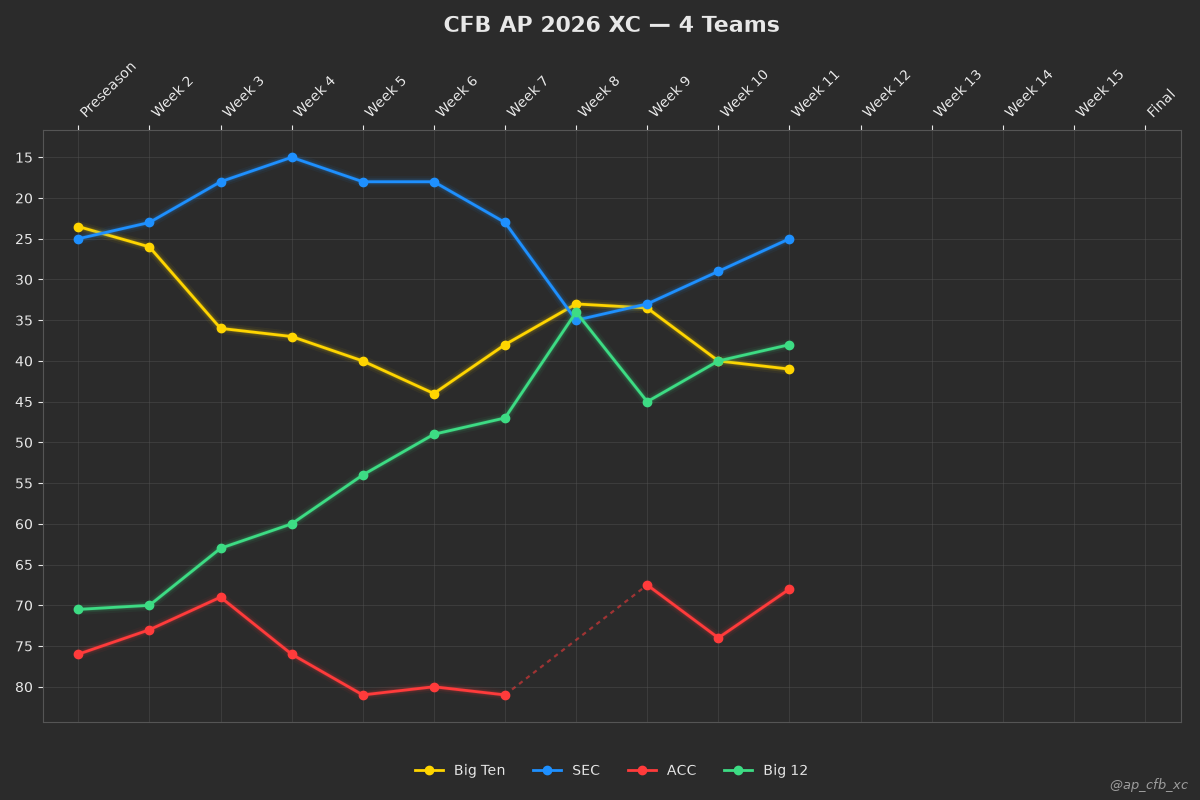
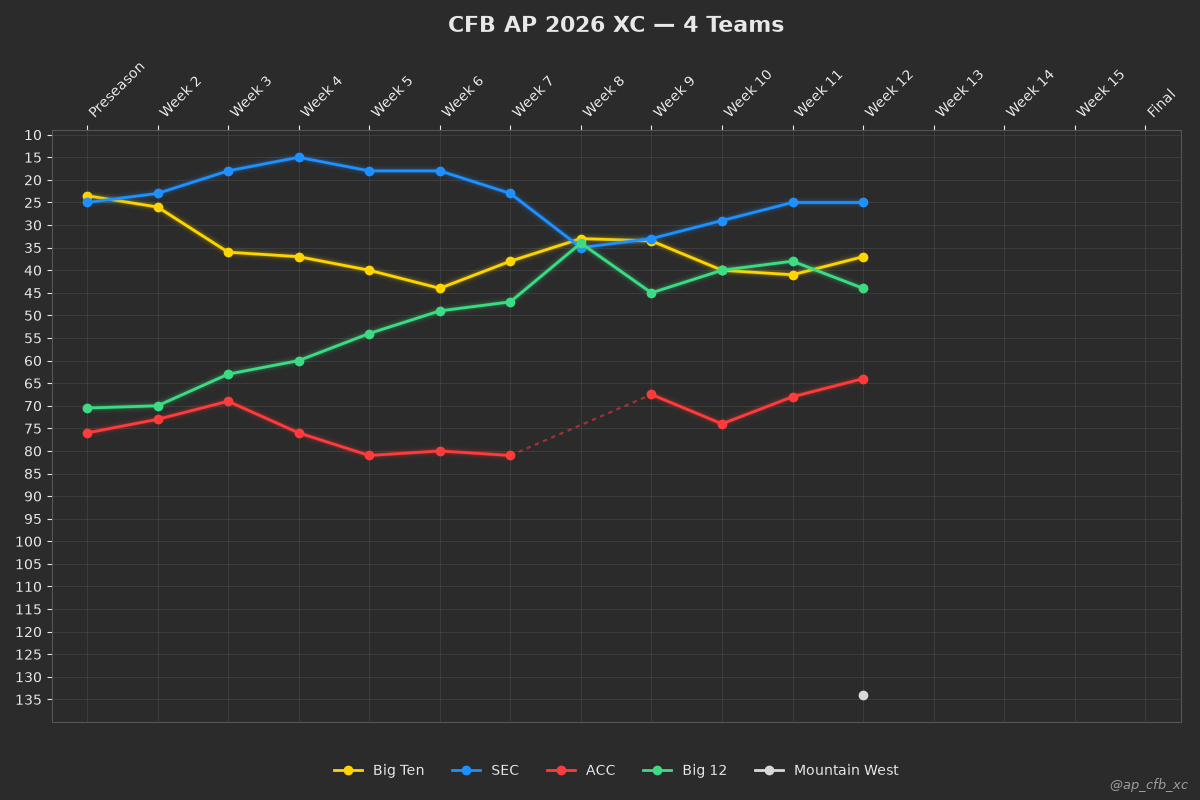
Add Week 12 2026 results

diff --git a/README.md b/README.md
@@ -18,22 +18,25 @@ This provides an objective, measurable comparison of conference strength for eve
 ![five team](images/current_week_5team.png)
 
 <!-- XC-TABLE-5-TEAM:START -->
-**2026 Week 11** — 5-team XC standings
+**2026 Week 12** — 5-team XC standings
 
-| Pos | 1st · SEC | 2nd · Big Ten | 3rd · Big 12 | 4th · ACC | FBS Indep. | Pac-12 | Mountain West | CUSA | American |
-|:---:|:---|:---|:---|:---|:---|:---|:---|:---|:---|
-| **Score** | **38**&nbsp;(▲3) | **59**&nbsp;(▲2) | **60**&nbsp;(▲4) | **98**&nbsp;(▲7) | DNS | DNS | DNS | DNS | DNS |
-| 1 | Georgia (1)&nbsp;▲1 | UCLA (4)&nbsp;▲1 | Utah (2)&nbsp;▲1 | Miami (5)&nbsp;▼4 | *Notre Dame (3)&nbsp;▲1* | *Boise St (17)&nbsp;▲3* | *New Mexico (23)&nbsp;▼1* | *Liberty (29)&nbsp;▲4* | *North Texas (31)&nbsp;NR* |
-| 2 | Alabama (7)&nbsp;▲2 | Indiana (6)&nbsp;– | Texas Tech (10)&nbsp;▲3 | Wake Forest (11)&nbsp;▲3 |  |  |  |  |  |
-| 3 | Texas (8)&nbsp;▲2 | USC (15)&nbsp;▲3 | BYU (12)&nbsp;▼5 | SMU (25)&nbsp;▲4 |  |  |  |  |  |
-| 4 | Tennessee (9)&nbsp;▲7 | Iowa (16)&nbsp;▲5 | Houston (14)&nbsp;▲3 | Duke (27)&nbsp;▲4 |  |  |  |  |  |
-| 5 | Kentucky (13)&nbsp;▼5 | Oregon (18)&nbsp;▲9 | Arizona (22)&nbsp;▲2 | Louisville (30)&nbsp;▲5 |  |  |  |  |  |
-|  | ——— | ——— | ——— | ——— | ——— | ——— | ——— | ——— | ——— |
-| 6 | *Ole Miss (19)&nbsp;▼7* | *Ohio State (21)&nbsp;▼10* | *Oklahoma St (28)&nbsp;▲6* |  |  |  |  |  |  |
-| 7 | *South Carolina (20)&nbsp;▲3* |  |  |  |  |  |  |  |  |
-| 8 | *LSU (24)&nbsp;▼9* |  |  |  |  |  |  |  |  |
-| 9 | *Missouri (26)&nbsp;▼7* |  |  |  |  |  |  |  |  |
-| Dropped | Florida | Northwestern, Minnesota |  | Virginia Tech |  |  |  |  | UTSA |
+| Pos | 1st · SEC | 2nd · Big Ten | 3rd · Big 12 | 4th · ACC | FBS Indep. | Pac-12 | CUSA | American | Mountain West | Sun Belt | MAC |
+|:---:|:---|:---|:---|:---|:---|:---|:---|:---|:---|:---|:---|
+| **Score** | **42**&nbsp;(▼4) | **53**&nbsp;(▲6) | **64**&nbsp;(▼4) | **99.5**&nbsp;(▼1.5) | DNS | DNS | DNS | DNS | DNS | DNS | DNS |
+| 1 | Georgia (1)&nbsp;– | UCLA (4)&nbsp;– | Utah (2)&nbsp;– | Miami (5)&nbsp;– | *Notre Dame (3)&nbsp;–* | *Boise St (15)&nbsp;▲2* | *Liberty (22)&nbsp;▲7* | *Memphis (24)&nbsp;NR* | *New Mexico (30)&nbsp;▼7* | *Louisiana Tech (32)&nbsp;NR* | *Toledo (35.5)&nbsp;NR* |
+| 2 | Alabama (7)&nbsp;– | Indiana (6)&nbsp;– | Texas Tech (11)&nbsp;▼1 | Wake Forest (10)&nbsp;▲1 |  |  |  | *UTSA (29)&nbsp;NR* | *N Dakota St (33)&nbsp;NR* |  |  |
+| 3 | Texas (8)&nbsp;– | Iowa (13)&nbsp;▲3 | BYU (12)&nbsp;– | Louisville (21)&nbsp;▲9 |  |  |  |  | *Wyoming (35.5)&nbsp;NR* |  |  |
+| 4 | Tennessee (9)&nbsp;– | Oregon (14)&nbsp;▲4 | Arizona (19)&nbsp;▲3 | Duke (28)&nbsp;▼1 |  |  |  |  | *Air Force (35.5)&nbsp;NR* |  |  |
+| 5 | Kentucky (17)&nbsp;▼4 | Ohio State (16)&nbsp;▲5 | Houston (20)&nbsp;▼6 | SMU (35.5)&nbsp;▼10.5 |  |  |  |  |  |  |  |
+|  | ——— | ——— | ——— | ——— | ——— | ——— | ——— | ——— | ——— | ——— | ——— |
+| 6 | *Florida (23)&nbsp;NR* | *USC (18)&nbsp;▼3* |  |  |  |  |  |  |  |  |  |
+| 7 | *Ole Miss (25)&nbsp;▼6* |  |  |  |  |  |  |  |  |  |  |
+| 8 | *Oklahoma (26)&nbsp;NR* |  |  |  |  |  |  |  |  |  |  |
+| 9 | *LSU (27)&nbsp;▼3* |  |  |  |  |  |  |  |  |  |  |
+| 10 | *South Carolina (31)&nbsp;▼11* |  |  |  |  |  |  |  |  |  |  |
+| 11 | *Auburn (38)&nbsp;NR* |  |  |  |  |  |  |  |  |  |  |
+| 12 | *Missouri (39)&nbsp;▼13* |  |  |  |  |  |  |  |  |  |  |
+| Dropped |  |  | Oklahoma St |  |  |  |  | North Texas |  |  |  |
 
 <sub>Each team is shown with its AP ranking. A conference's score is the sum of its top five teams' rankings - lowest score wins, and ties are broken by each conference's 6th runner. Italicized teams don't count toward the score; DNS means the conference didn't have enough ranked teams to score (listed after the scoring conferences). ▲/▼ is how many spots a team moved since last week's poll (a conference's score change is shown in parentheses; a lower score is better, so a falling score is ▲). – means unchanged and NR means it wasn't ranked or receiving votes last week. Dropped lists teams that were ranked or receiving votes last week but are out of the poll entirely this week, in last week's order.</sub>
 <!-- XC-TABLE-5-TEAM:END -->
